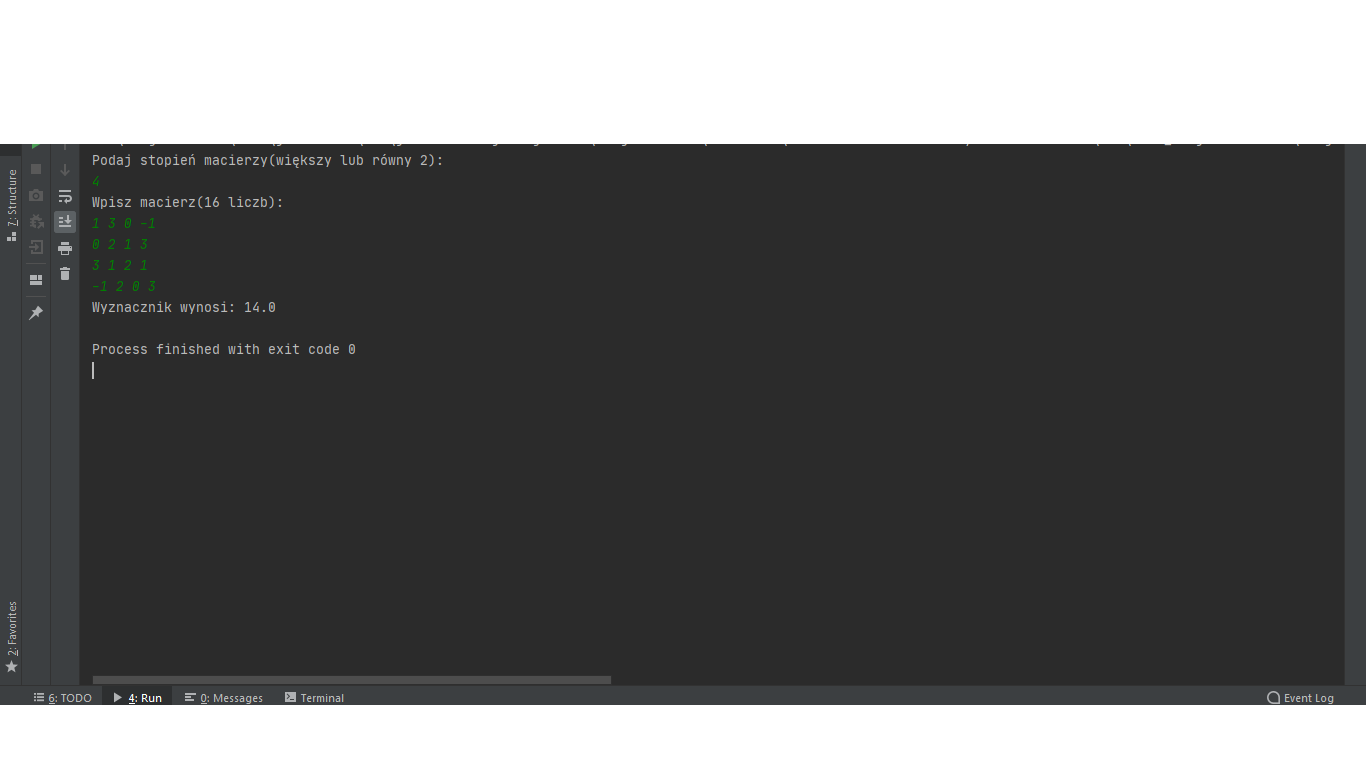
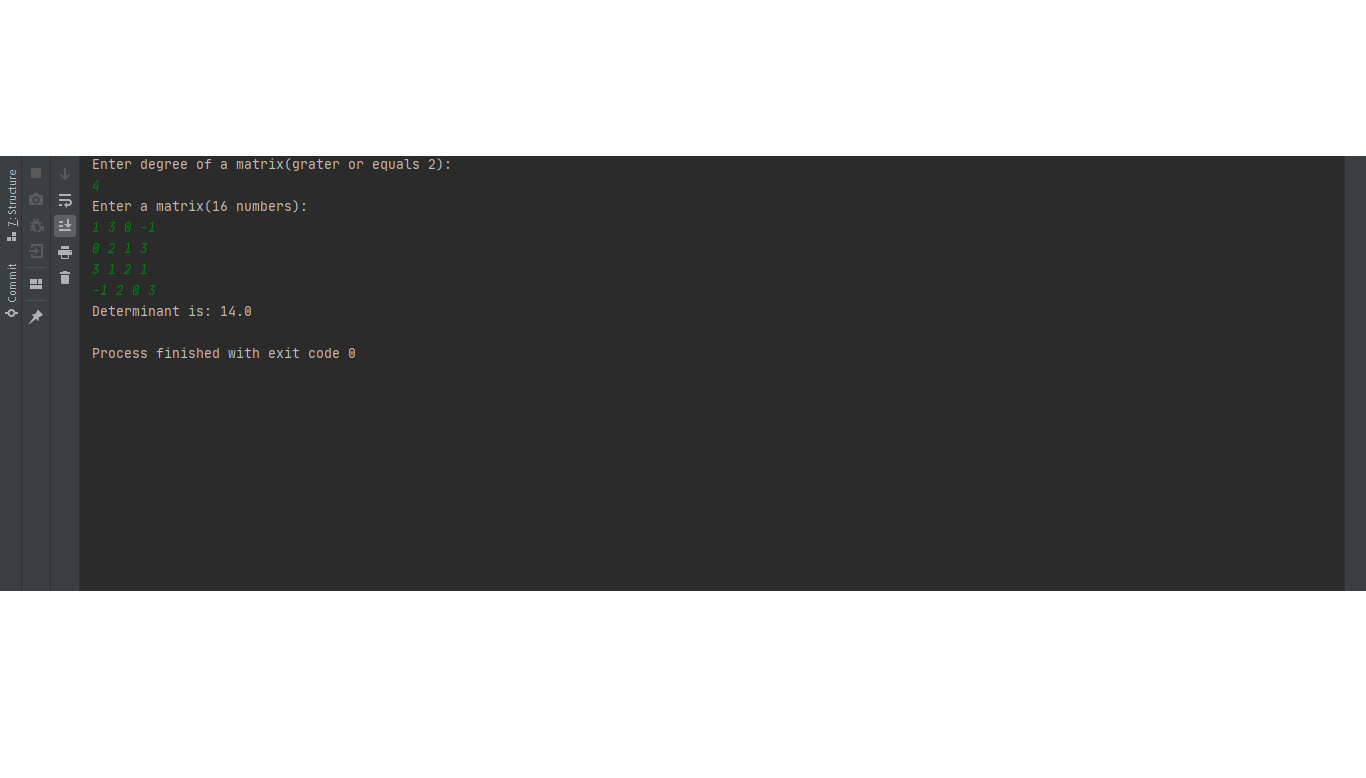
java program

Changed region(s): [[0.0, 0.7404, 1.0, 0.9254], [0.0, 0.1851, 1.0, 0.2159], [0.0, 0.2468, 0.2767, 0.4627]]

diff --git a/src/com/mycompany/Determinant.java b/src/com/mycompany/Determinant.java
@@ -11,14 +11,14 @@ public class Determinant {
         double[][] matrix=null;
         Scanner in=new Scanner(System.in);
         do {
-            System.out.println("Podaj stopień macierzy(większy lub równy 2):");
+            System.out.println("Enter degree of a matrix(grater or equals 2):");
             degreeMatrix=in.nextInt();
         }while (degreeMatrix<2);
 
         matrix=new double[degreeMatrix][degreeMatrix];
         int counter=0;
         do{
-            String question=String.format("Wpisz macierz(%d liczb): ",degreeMatrix*degreeMatrix);
+            String question=String.format("Enter a matrix(%d numbers): ",degreeMatrix*degreeMatrix);
             System.out.println(question);
             for(int i=0;i<degreeMatrix;i++){
                 for(int j=0;j<degreeMatrix;j++){
@@ -29,7 +29,7 @@ public class Determinant {
         }while (degreeMatrix*degreeMatrix!=counter);
 
         determinant=countDeterminant(degreeMatrix,matrix);
-        System.out.println("Wyznacznik wynosi: "+determinant);
+        System.out.println("Determinant is: "+determinant);
 
     }
 
